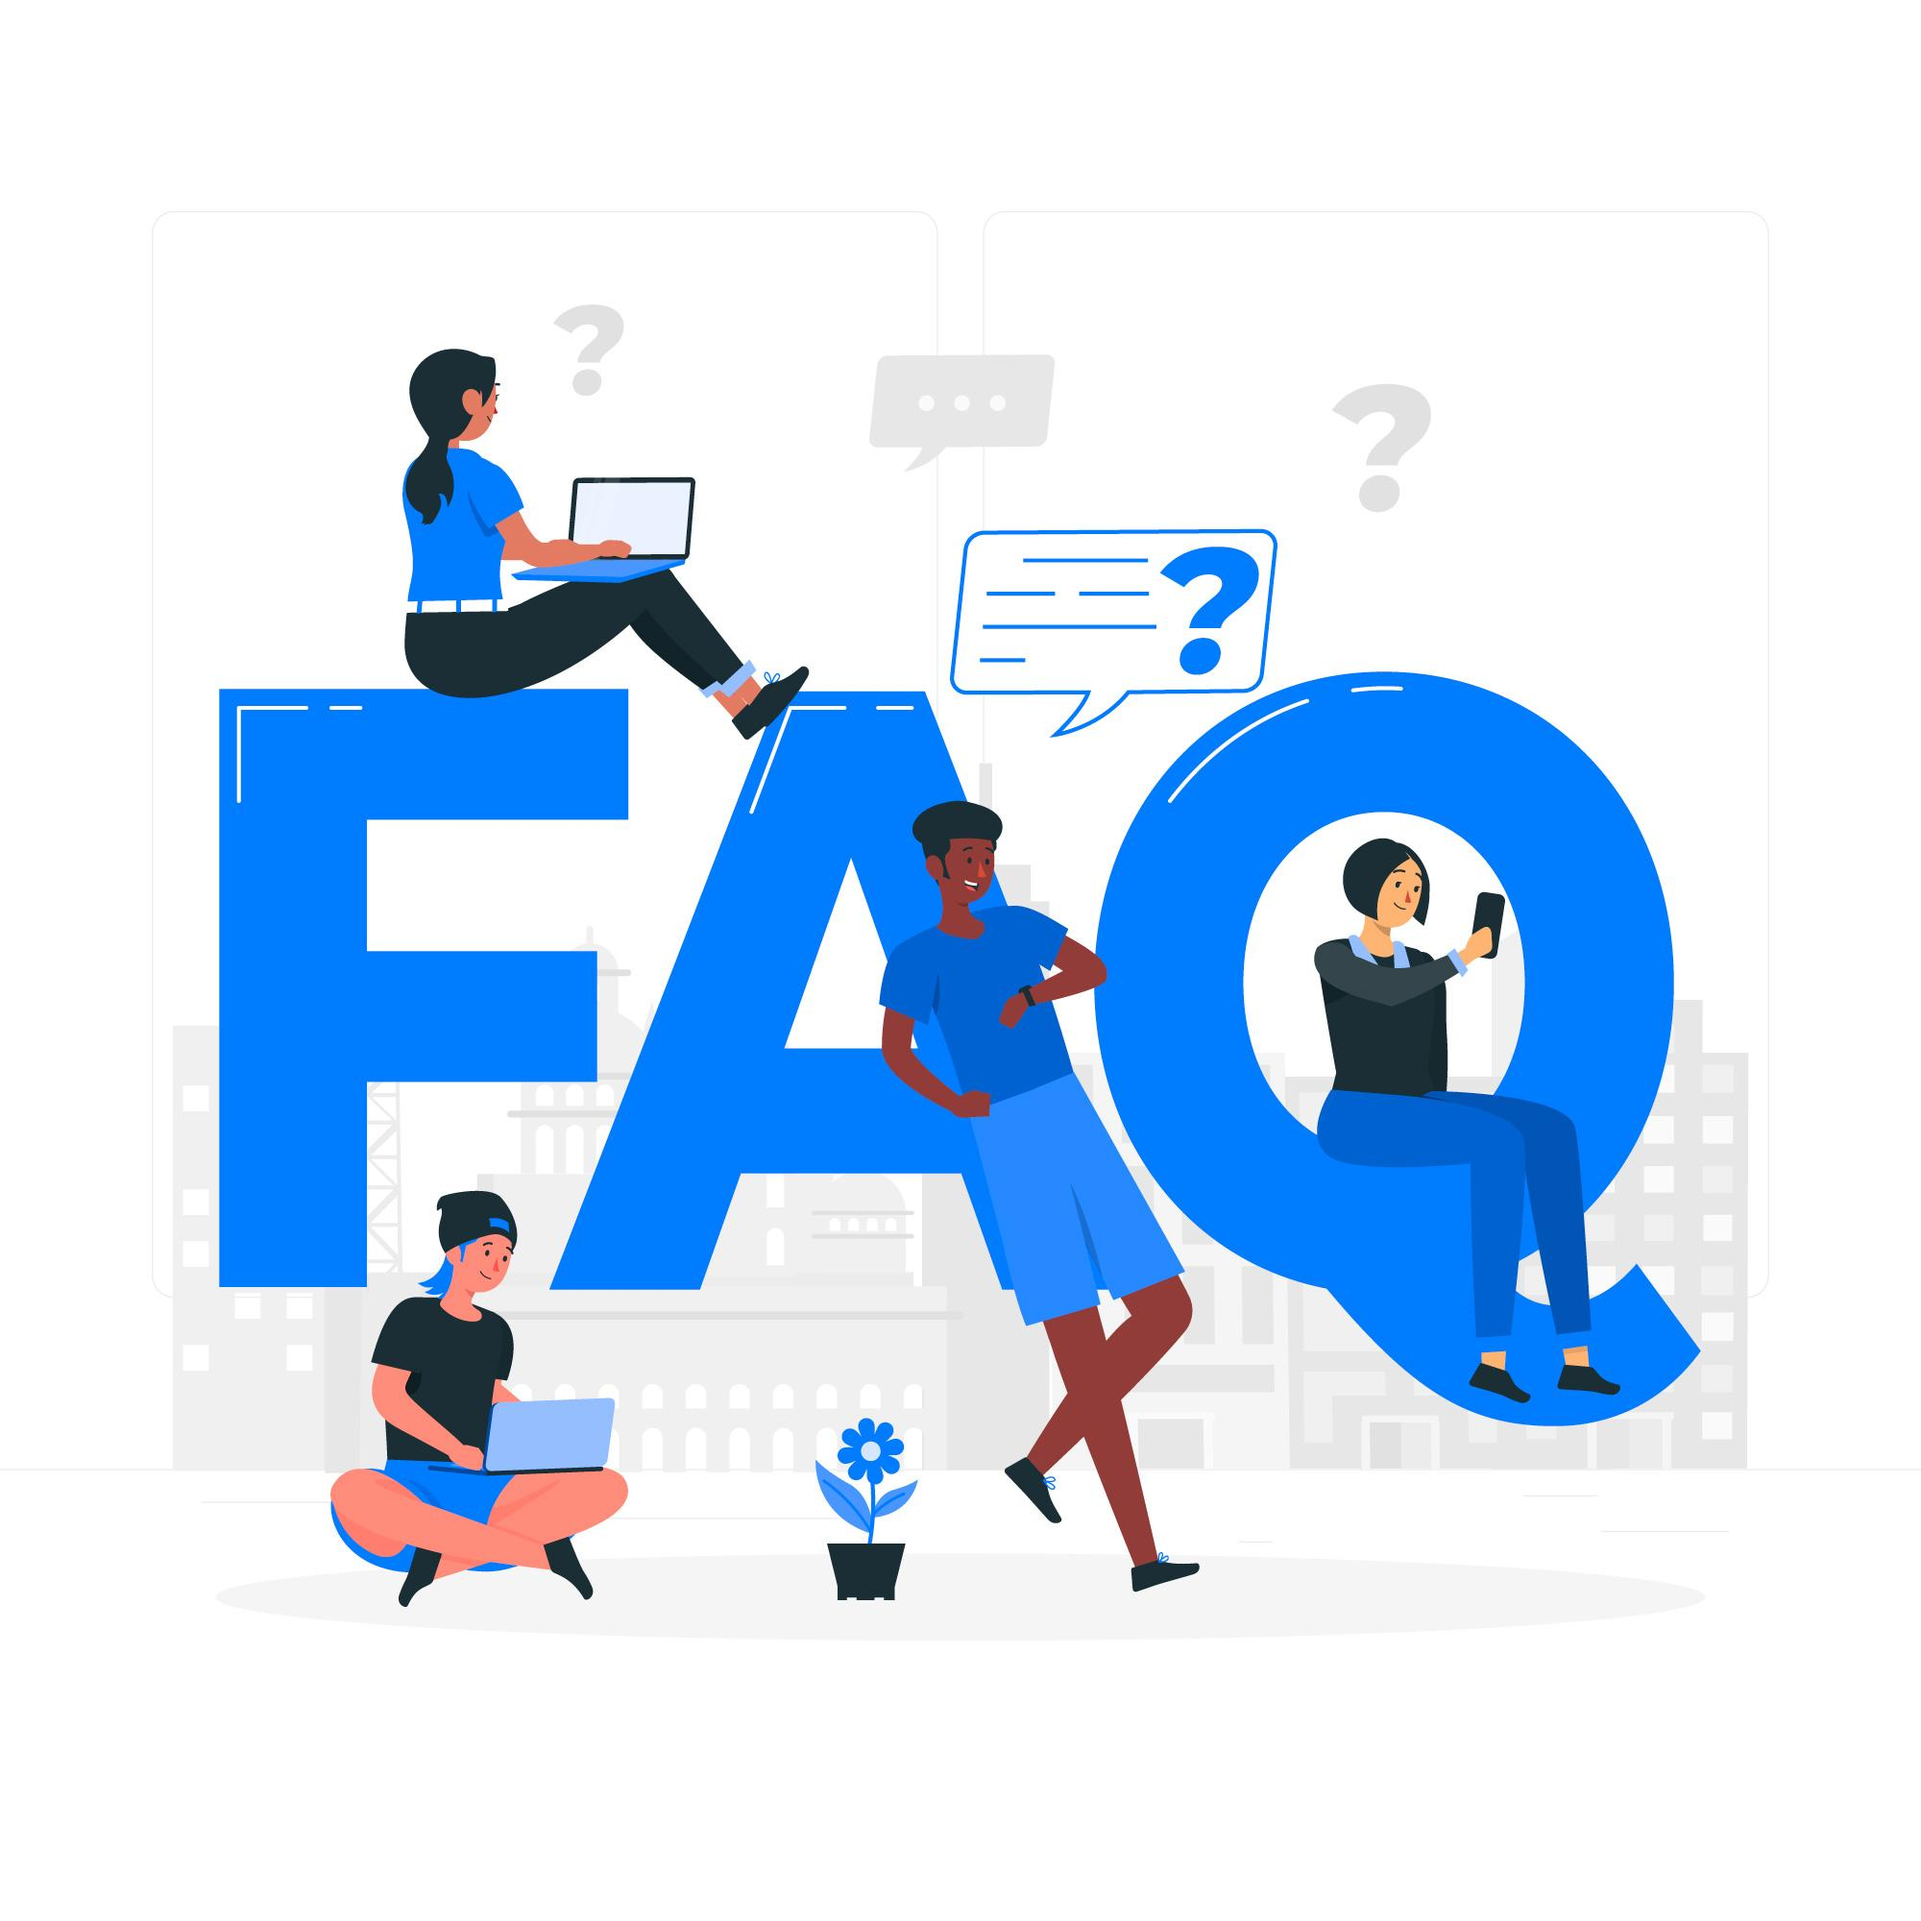
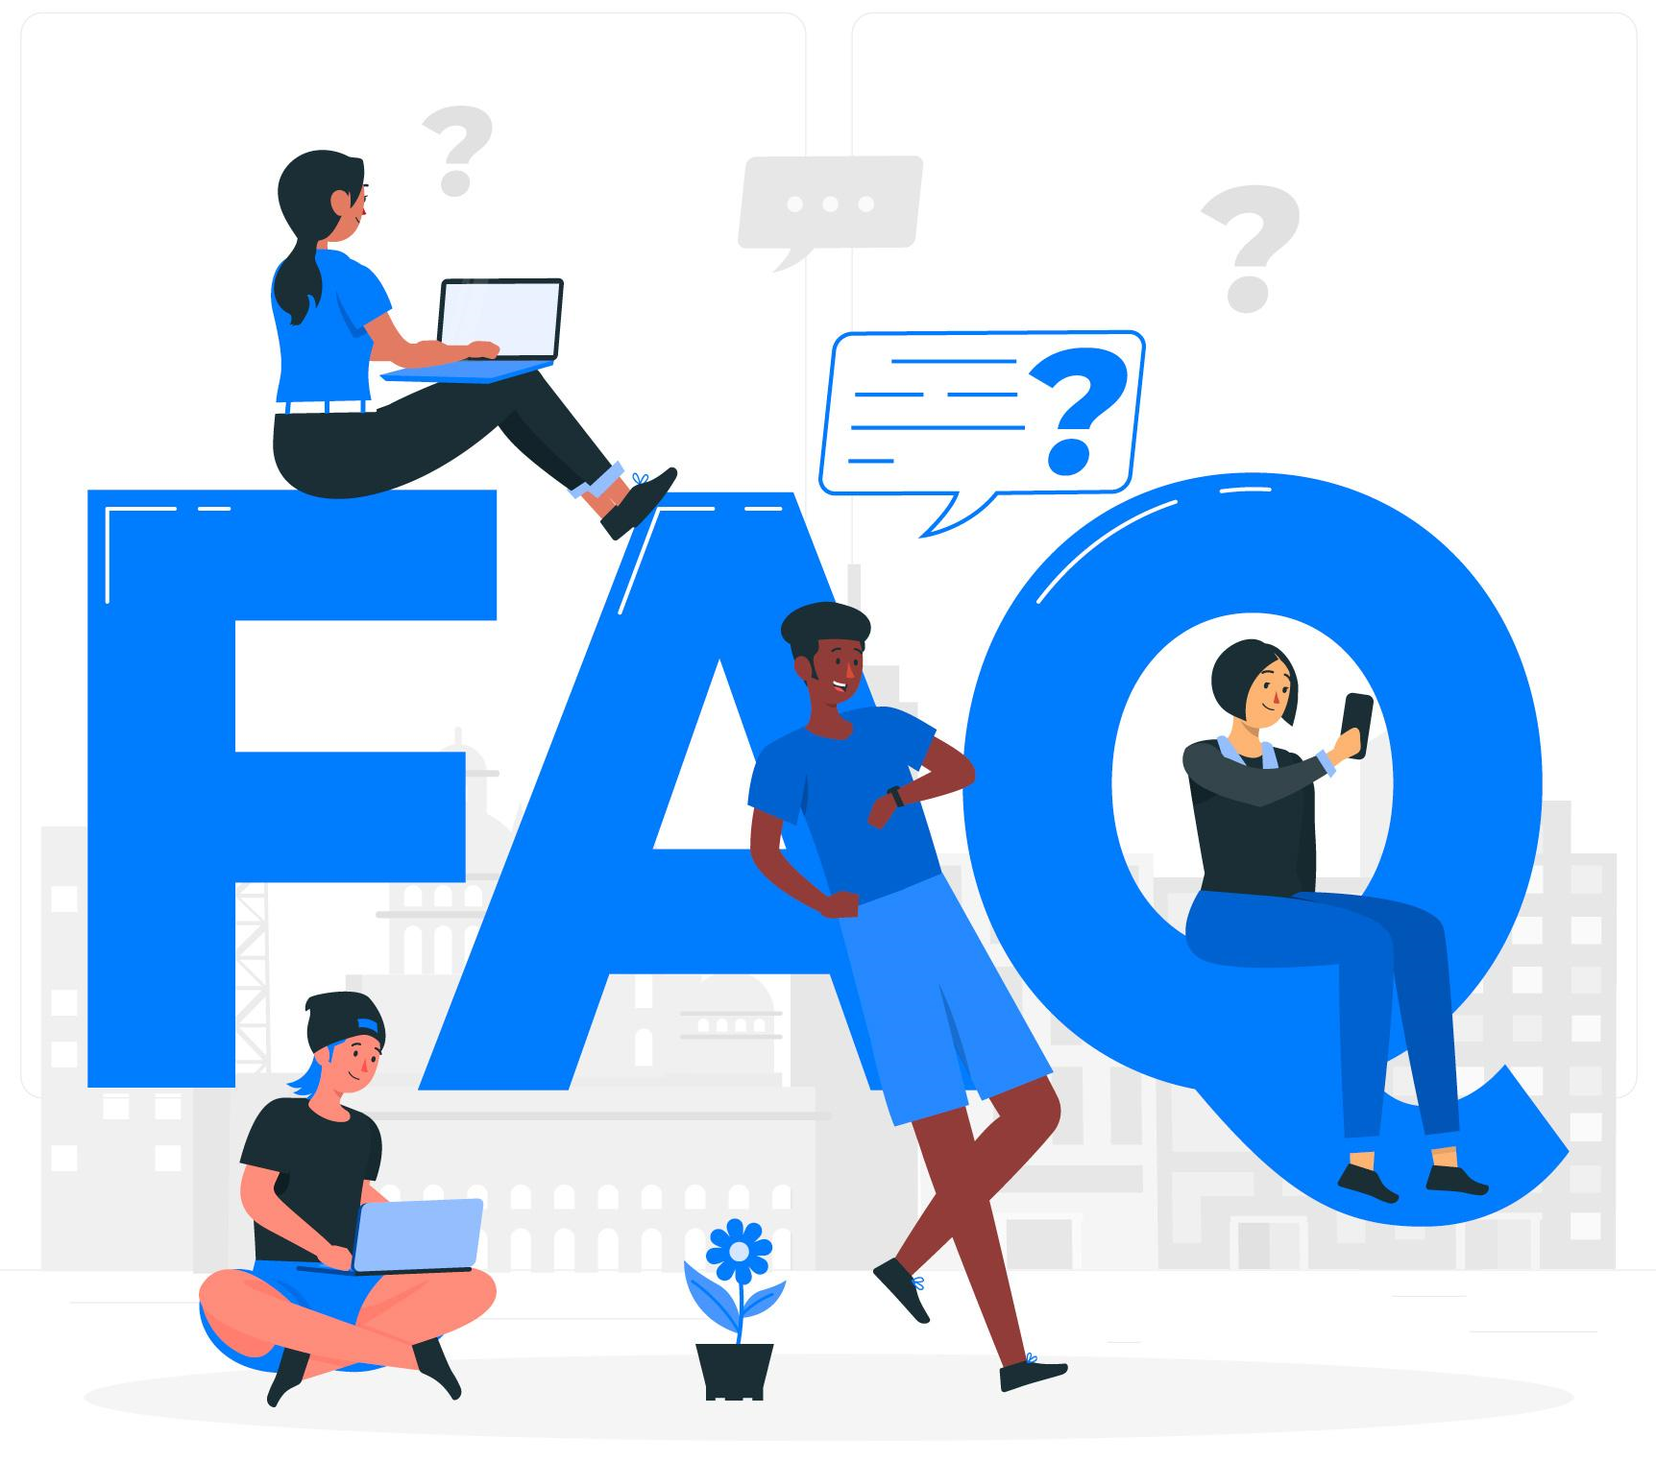
fix: Minor UI Fixes

Changed region(s): [[0.0307, 0.0617, 0.953, 0.9567], [0.3997, 0.7406, 0.4919, 0.9567], [0.7378, 0.8332, 0.7686, 0.8641]]

diff --git a/styles/faq.css b/styles/faq.css
@@ -1,9 +1,9 @@
 .faq-section {
   position: relative;
   display: flex;
-  align-items: center;
   justify-content: center;
   flex-wrap: wrap;
+  gap: 2rem;
   width: 100%;
   min-height: 80vh;
   margin-bottom: 2rem;
@@ -12,17 +12,12 @@
 .faq-section-left {
   position: relative;
   display: flex;
-  align-items: center;
-  justify-content: center;
+  flex-direction: column;
   flex: 1;
   height: 100%;
   padding: 0 0.3rem;
   min-width: 350px;
-  max-width: 500px;
-}
-
-.faq-image {
-  width: 100%;
+  max-width: 550px;
 }
 
 .faq-section-right {

diff --git a/styles/contact.css b/styles/contact.css
@@ -1,7 +1,3 @@
-body {
-  background-color: var(--text-light-color);
-}
-
 /* gif */
 .gif-container {
   display: flex;
@@ -145,7 +141,6 @@ section.left .contactInfo {
   font-size: 18px;
 }
 .iconGroup .details span:nth-child(1) {
-  text-transform: uppercase;
   color: #000000;
 }
 section.left .socialMedia {

diff --git a/contact.php b/contact.php
@@ -50,11 +50,9 @@
 
           <section class="col right">
             <!--  *******   Form Starts   *******  -->
-            <div>
-              <h2 class="section-title">Send Us A <span>Message</span></h2>
-            </div>
             <form class="messageForm">
-              <div class="form-floating mb-3 halfWidth">
+            <h2 class="section-title mb-4">Send Us A <span>Message</span></h2>  
+            <div class="form-floating mb-3 halfWidth">
                 <input
                   type="text"
                   class="form-control"
@@ -113,7 +111,7 @@
           <!--  *******   Title Starts   *******  -->
           <section class="col left">
             <div>
-              <h2 class="section-title">Contact us</h2>
+              <h2 class="section-title">Contact Us</h2>
               <p>
                 <br />If Connect with us and let's bring your vision to life!
                 We're eager to hear your ideas, answer your questions, and work
@@ -142,7 +140,7 @@
                 </div>
                 <div class="details">
                   <span>Email</span>
-                  <span>ceylonjob@gmail.com</span>
+                  <span>support@ceylonjobseeker.com</span>
                 </div>
               </div>
 

diff --git a/faq.php b/faq.php
@@ -17,17 +17,17 @@
   <body>
     <div class="main-wrapper">
     <?php include_once "./components/navbar.php"; ?>
-      <div class="container faq-section">
+     <div class="container faq-section mt-4">
         <div class="faq-section-left">
+          <h2 class="section-title">Frequently asked <span>questions</span></h2>
+          <p>Questions you might ask about our Services.</p>
           <img
-            class="faq-image"
+            class="img-fluid"
             src="./assets/images/faq/faq-art.png"
             alt="FAQ Image"
           />
         </div>
         <div class="faq-section-right">
-          <h2>Frequently asked questions</h2>
-          <p>Questions you might ask about our Services.</p>
           <div class="accordion accordion-flush" id="accordionFlushExample">
             <div class="accordion-item">
               <h2 class="accordion-header">
@@ -160,7 +160,7 @@
             don't hesitate to contact our support team at through our contact
             form.
           </p>
-          <button class="btn-primary" type="button">Contact Us</button>
+          <a href="./contact.php"><button class="btn-primary" type="button">Contact Us</button></a>
         </div>
       </div>
        <!-- Footer Start -->

diff --git a/admin-register.php b/admin-register.php
@@ -70,7 +70,7 @@ if(isset($_SESSION['username'])) {
         <div class="mb-3">
           <label for="adminName" class="form-label">Password</label>
           <input
-            type="text"
+            type="password"
             class="form-control"
             id="password"
             name="password"
@@ -83,7 +83,7 @@ if(isset($_SESSION['username'])) {
             >Confirm Password</label
           >
           <input
-            type="text"
+            type="password"
             class="form-control"
             id="confirmPassword"
             name="confirmPassword"
@@ -94,7 +94,10 @@ if(isset($_SESSION['username'])) {
             >Already have an account? <a href="admin-login.php">Login</a></span
           >
         </div>
-        <button class="btn-primary w-100" type="submit">Register</button>
+        <div class="d-flex gap-3">
+          <a class="btn btn-outline-secondary w-50" href="index.html">Cancel</a>
+          <button class="btn-primary w-50" type="submit">Register</button>
+        </div>
       </form>
     </div>
     <!-- Popper - CDN -->

diff --git a/admin-login.php b/admin-login.php
@@ -57,7 +57,7 @@ if(isset($_SESSION['username'])) {
         <div class="mb-3">
           <label for="adminName" class="form-label">Password</label>
           <input
-            type="text"
+            type="password"
             class="form-control"
             id="password"
             name="password"
@@ -69,7 +69,10 @@ if(isset($_SESSION['username'])) {
             <a href="admin-register.php">Register</a></span
           >
         </div>
-        <button class="btn-primary w-100" type="submit">Login</button>
+        <div class="d-flex gap-3">
+          <a class="btn btn-outline-secondary w-50" href="index.html">Cancel</a>
+          <button class="btn-primary w-50" type="submit">Login</button>
+        </div>
         <span class="secondary-action-text">- Or -</span>
         <button class="btn btn-secondary w-100 icon-button" type="button">
           <i class="fa-brands fa-google"></i>
